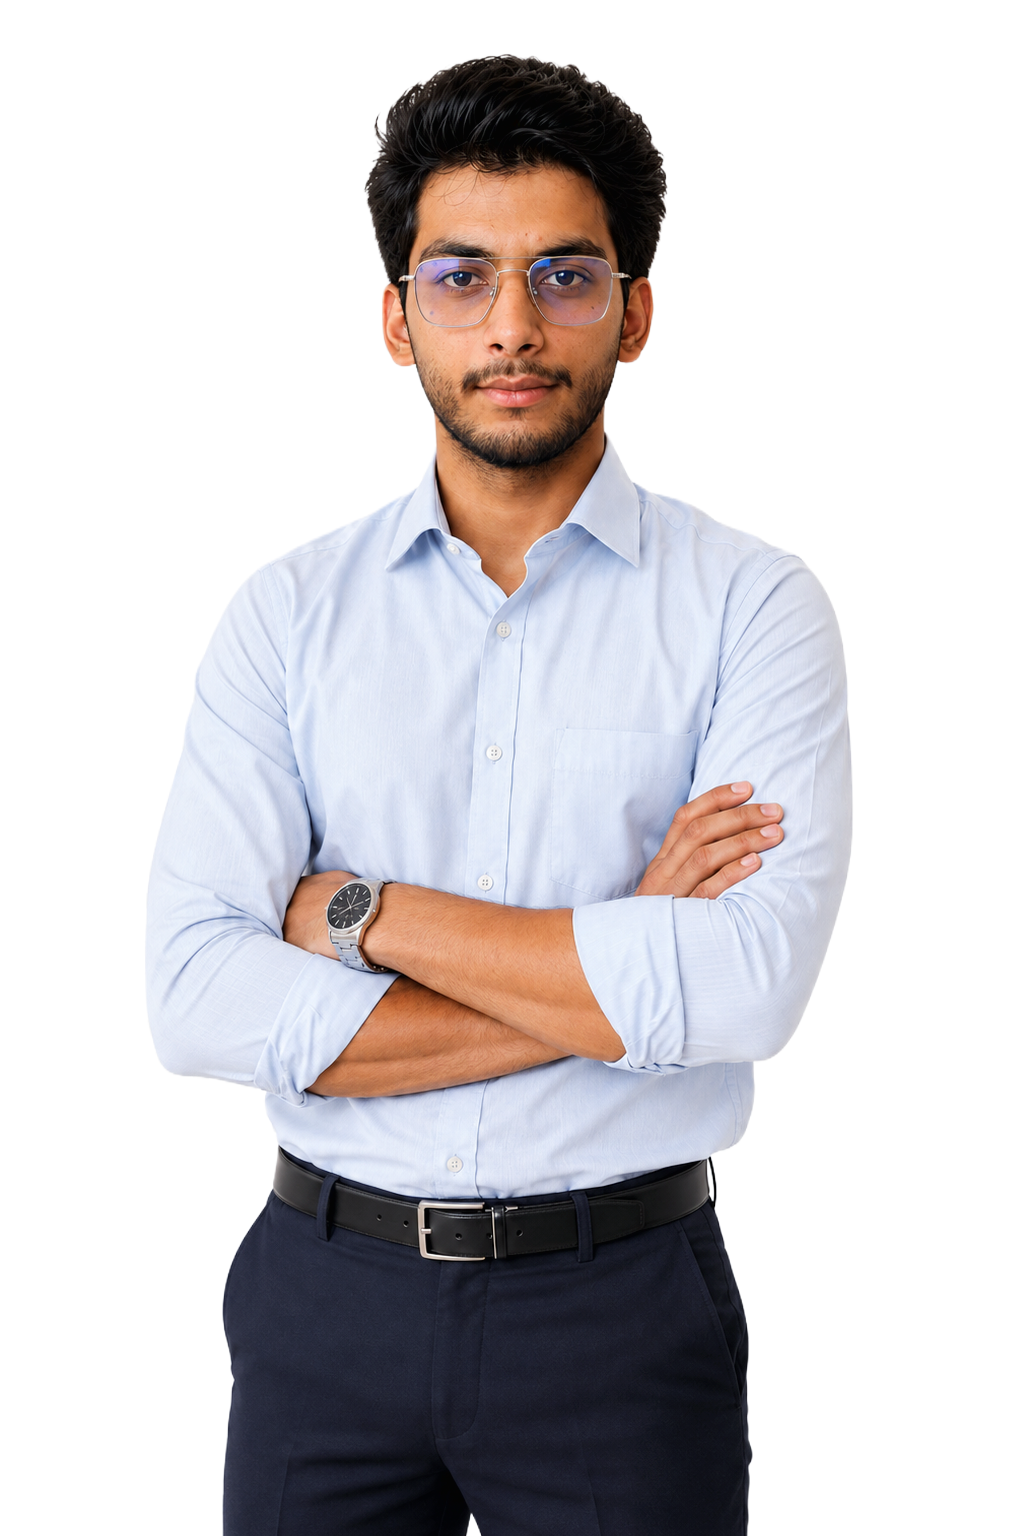
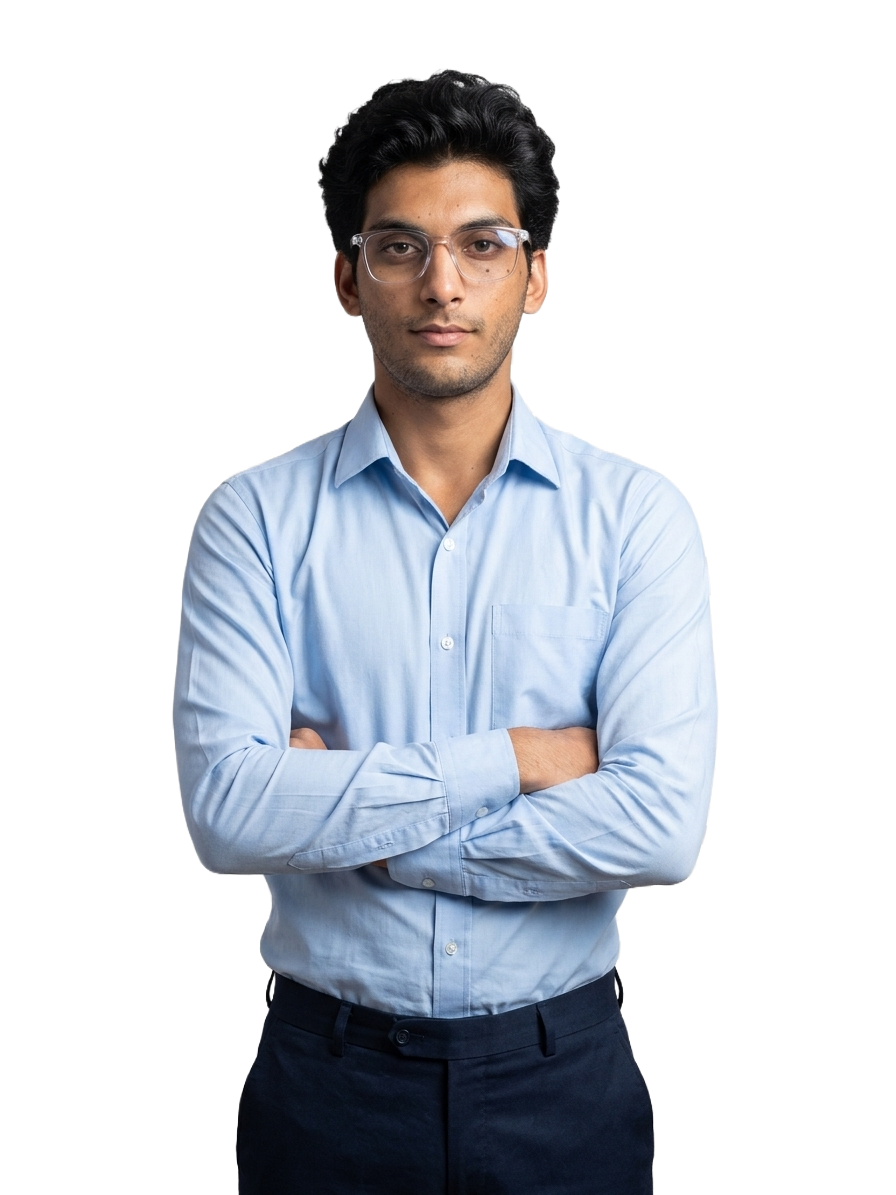
new commit

diff --git a/index.html b/index.html
@@ -115,16 +115,20 @@
                   <div class="social-link">
                     <a
                       href="https://www.instagram.com/raghavudayy?igsh=YXFjZjNzdndmbW9x"
+                      target="_blank"
                       ><i class="fa-brands fa-instagram"></i
                     ></a>
                     <a
                       href="https://www.linkedin.com/in/raghavudaypratap?utm_source=share_via&utm_content=profile&utm_medium=member_android"
+                      target="_blank"
                       ><i class="fa-brands fa-linkedin-in"></i
                     ></a>
                     <a href="https://x.com/raghavudayy"
+                    target="_blank"
                       ><i class="fa-brands fa-twitter"></i
                     ></a>
                     <a href="https://www.facebook.com/raghavudayy"
+                    target="_blank"
                       ><i class="fa-brands fa-facebook-f"></i
                     ></a>
                   </div>
@@ -228,16 +232,20 @@
               <div class="social-link">
                 <a
                   href="https://www.instagram.com/raghavudayy?igsh=YXFjZjNzdndmbW9x"
+                  target="_blank"
                   ><i class="fa-brands fa-instagram"></i
                 ></a>
                 <a
                   href="https://www.linkedin.com/in/raghavudaypratap?utm_source=share_via&utm_content=profile&utm_medium=member_android"
+                  target="_blank"
                   ><i class="fa-brands fa-linkedin-in"></i
                 ></a>
                 <a href="https://x.com/raghavudayy"
+                target="_blank"
                   ><i class="fa-brands fa-twitter"></i
                 ></a>
                 <a href="https://www.facebook.com/raghavudayy"
+                target="_blank"
                   ><i class="fa-brands fa-facebook-f"></i
                 ></a>
               </div>
@@ -294,16 +302,20 @@
             <div class="social-link">
               <a
                 href="https://www.instagram.com/raghavudayy?igsh=YXFjZjNzdndmbW9x"
+                target="_blank"
                 ><i class="fa-brands fa-instagram"></i
               ></a>
               <a
                 href="https://www.linkedin.com/in/raghavudaypratap?utm_source=share_via&utm_content=profile&utm_medium=member_android"
+                target="_blank"
                 ><i class="fa-brands fa-linkedin-in"></i
               ></a>
               <a href="https://x.com/raghavudayy"
+              target="_blank"
                 ><i class="fa-brands fa-twitter"></i
               ></a>
               <a href="https://www.facebook.com/raghavudayy"
+              target="_blank"
                 ><i class="fa-brands fa-facebook-f"></i
               ></a>
             </div>
@@ -865,6 +877,94 @@
           </p>
         </div>
         <div class="row">
+          <!--project 1-->
+          <div class="col-lg-6 col-sm-6">
+            <div
+              class="latest-portfolio-card tmp-hover-link tmp-scroll-trigger tmp-fade-in animation-order-1"
+            >
+              <div class="portfoli-card-img">
+                <div class="img-box v2 bg-white">
+                  <a
+                    class="tmp-scroll-trigger tmp-zoom-in animation-order-1"
+                    
+                    target="_blank"
+                  >
+                    <img
+                      class="h-100 object-fit-contain"
+                      src="assets\images\latest-portfolio\clientflow.png"
+                      alt="Thumbnail"
+                    />
+                  </a>
+                </div>
+              </div>
+              <div class="portfolio-card-content-wrap">
+                <div class="content-left">
+                  <h3 class="portfolio-card-title">
+                    <a class="link" 
+                    target="_blank"
+                      >ClientFlow: CRM Management System</a
+                    >
+                  </h3>
+                  <p class="portfoli-card-para">PHP • MySQL • Bootstrap • CRUD</p>
+                </div>
+                <a
+                  
+                target="_blank"
+                  class="tmp-arrow-icon-btn"
+                >
+                  <div class="btn-inner">
+                    <i class="tmp-icon fa-solid fa-arrow-up-right"></i>
+                    <i class="tmp-icon-bottom fa-solid fa-arrow-up-right"></i>
+                  </div>
+                </a>
+              </div>
+            </div>
+          </div>
+
+          <!--Project2-->
+          <div class="col-lg-6 col-sm-6">
+            <div
+              class="latest-portfolio-card tmp-hover-link tmp-scroll-trigger tmp-fade-in animation-order-1"
+            >
+              <div class="portfoli-card-img">
+                <div class="img-box v2 bg-white">
+                  <a
+                    class="tmp-scroll-trigger tmp-zoom-in animation-order-1"
+                    href="https://memonest.infinityfreeapp.com"
+                    target="_blank"
+                  >
+                    <img
+                      class="h-100 object-fit-contain"
+                      src="assets\images\latest-portfolio\memonest.png"
+                      alt="Thumbnail"
+                    />
+                  </a>
+                </div>
+              </div>
+              <div class="portfolio-card-content-wrap">
+                <div class="content-left">
+                  <h3 class="portfolio-card-title">
+                    <a class="link" href="https://memonest.infinityfreeapp.com"
+                    target="_blank"
+                      >MemoNest: Secure Personal Diary</a
+                    >
+                  </h3>
+                  <p class="portfoli-card-para">PHP • MySQL • Bootstrap • Authentication</p>
+                </div>
+                <a
+                  href="https://memonest.infinityfreeapp.com"
+                  target="_blank"
+                  class="tmp-arrow-icon-btn"
+                >
+                  <div class="btn-inner">
+                    <i class="tmp-icon fa-solid fa-arrow-up-right"></i>
+                    <i class="tmp-icon-bottom fa-solid fa-arrow-up-right"></i>
+                  </div>
+                </a>
+              </div>
+            </div>
+          </div>
+          <!--Project 3-->
           <div class="col-lg-6 col-sm-6">
             <div
               class="latest-portfolio-card tmp-hover-link tmp-scroll-trigger tmp-fade-in animation-order-1"
@@ -874,6 +974,7 @@
                   <a
                     class="tmp-scroll-trigger tmp-zoom-in animation-order-1"
                     href="https://news-board-orcin.vercel.app/"
+                    target="_blank"
                   >
                     <img
                       class="h-100 object-fit-contain"
@@ -887,6 +988,7 @@
                 <div class="content-left">
                   <h3 class="portfolio-card-title">
                     <a class="link" href="https://news-board-orcin.vercel.app/"
+                    target="_blank"
                       >NewsBoard: A News Article Webpage</a
                     >
                   </h3>
@@ -894,6 +996,7 @@
                 </div>
                 <a
                   href="https://news-board-orcin.vercel.app/"
+                  target="_blank"
                   class="tmp-arrow-icon-btn"
                 >
                   <div class="btn-inner">
@@ -914,6 +1017,8 @@
                   <a
                     class="tmp-scroll-trigger tmp-zoom-in animation-order-1"
                     href="https://sneak-spot.vercel.app/"
+                    target="_blank"
+                    target="_blank"
                   >
                     <img
                       class="w-100"
@@ -927,6 +1032,8 @@
                 <div class="content-left">
                   <h3 class="portfolio-card-title">
                     <a class="link" href="https://sneak-spot.vercel.app/"
+                    target="_blank"
+                    target="_blank"
                       >SneakSpot: A Footwear E-Com Webpage</a
                     >
                   </h3>
@@ -937,6 +1044,8 @@
                 </div>
                 <a
                   href="https://sneak-spot.vercel.app/"
+                  target="_blank"
+                  target="_blank"
                   class="tmp-arrow-icon-btn"
                 >
                   <div class="btn-inner">
@@ -948,95 +1057,6 @@
             </div>
           </div>
 
-          <div class="col-lg-6 col-sm-6">
-            <div
-              class="latest-portfolio-card tmp-hover-link tmp-scroll-trigger tmp-fade-in animation-order-3"
-            >
-              <div class="portfoli-card-img">
-                <div class="img-box v2">
-                  <a
-                    class="tmp-scroll-trigger tmp-zoom-in animation-order-1"
-                    href="https://day-drill-scheduler.vercel.app/"
-                  >
-                    <img
-                      class="w-100"
-                      src="assets/images/latest-portfolio/daydrill.png"
-                      alt="Thumbnail"
-                    />
-                  </a>
-                </div>
-              </div>
-              <div class="portfolio-card-content-wrap">
-                <div class="content-left">
-                  <h3 class="portfolio-card-title">
-                    <a
-                      class="link"
-                      href="https://day-drill-scheduler.vercel.app/"
-                      >DayDrill: Daily task Scheduler & Tracker</a
-                    >
-                  </h3>
-                  <p class="portfoli-card-para">
-                    Task Management Web App <br />
-                    HTML • CSS • JavaScript
-                  </p>
-                </div>
-                <a
-                  href="https://day-drill-scheduler.vercel.app/"
-                  class="tmp-arrow-icon-btn"
-                >
-                  <div class="btn-inner">
-                    <i class="tmp-icon fa-solid fa-arrow-up-right"></i>
-                    <i class="tmp-icon-bottom fa-solid fa-arrow-up-right"></i>
-                  </div>
-                </a>
-              </div>
-            </div>
-          </div>
-
-          <div class="col-lg-6 col-sm-6">
-            <div
-              class="latest-portfolio-card tmp-hover-link tmp-scroll-trigger tmp-fade-in animation-order-4"
-            >
-              <div class="portfoli-card-img">
-                <div class="img-box v2">
-                  <a
-                    class="tmp-scroll-trigger tmp-zoom-in animation-order-1"
-                    href="https://music-player-mu-sage.vercel.app/"
-                  >
-                    <img
-                      class="w-100"
-                      src="assets/images/latest-portfolio/musicPlayer.png"
-                      alt="Thumbnail"
-                    />
-                  </a>
-                </div>
-              </div>
-              <div class="portfolio-card-content-wrap">
-                <div class="content-left">
-                  <h3 class="portfolio-card-title">
-                    <a
-                      class="link"
-                      href="https://music-player-mu-sage.vercel.app/"
-                      >Music Player Webpage</a
-                    >
-                  </h3>
-                  <p class="portfoli-card-para">
-                    Interactive Audio Player <br />
-                    HTML • CSS • JavaScript
-                  </p>
-                </div>
-                <a
-                  href="https://music-player-mu-sage.vercel.app/"
-                  class="tmp-arrow-icon-btn"
-                >
-                  <div class="btn-inner">
-                    <i class="tmp-icon fa-solid fa-arrow-up-right"></i>
-                    <i class="tmp-icon-bottom fa-solid fa-arrow-up-right"></i>
-                  </div>
-                </a>
-              </div>
-            </div>
-          </div>
         </div>
       </div>
     </div>
@@ -1259,16 +1279,20 @@
                 <div class="social-link footer">
                   <a
                     href="https://www.instagram.com/raghavudayy?igsh=YXFjZjNzdndmbW9x"
+                    target="_blank"
                     ><i class="fa-brands fa-instagram"></i
                   ></a>
                   <a
                     href="https://www.linkedin.com/in/raghavudaypratap?utm_source=share_via&utm_content=profile&utm_medium=member_android"
+                    target="_blank"
                     ><i class="fa-brands fa-linkedin-in"></i
                   ></a>
                   <a href="https://x.com/raghavudayy"
+                  target="_blank"
                     ><i class="fa-brands fa-twitter"></i
                   ></a>
                   <a href="https://www.facebook.com/raghavudayy"
+                  target="_blank"
                     ><i class="fa-brands fa-facebook-f"></i
                   ></a>
                 </div>
